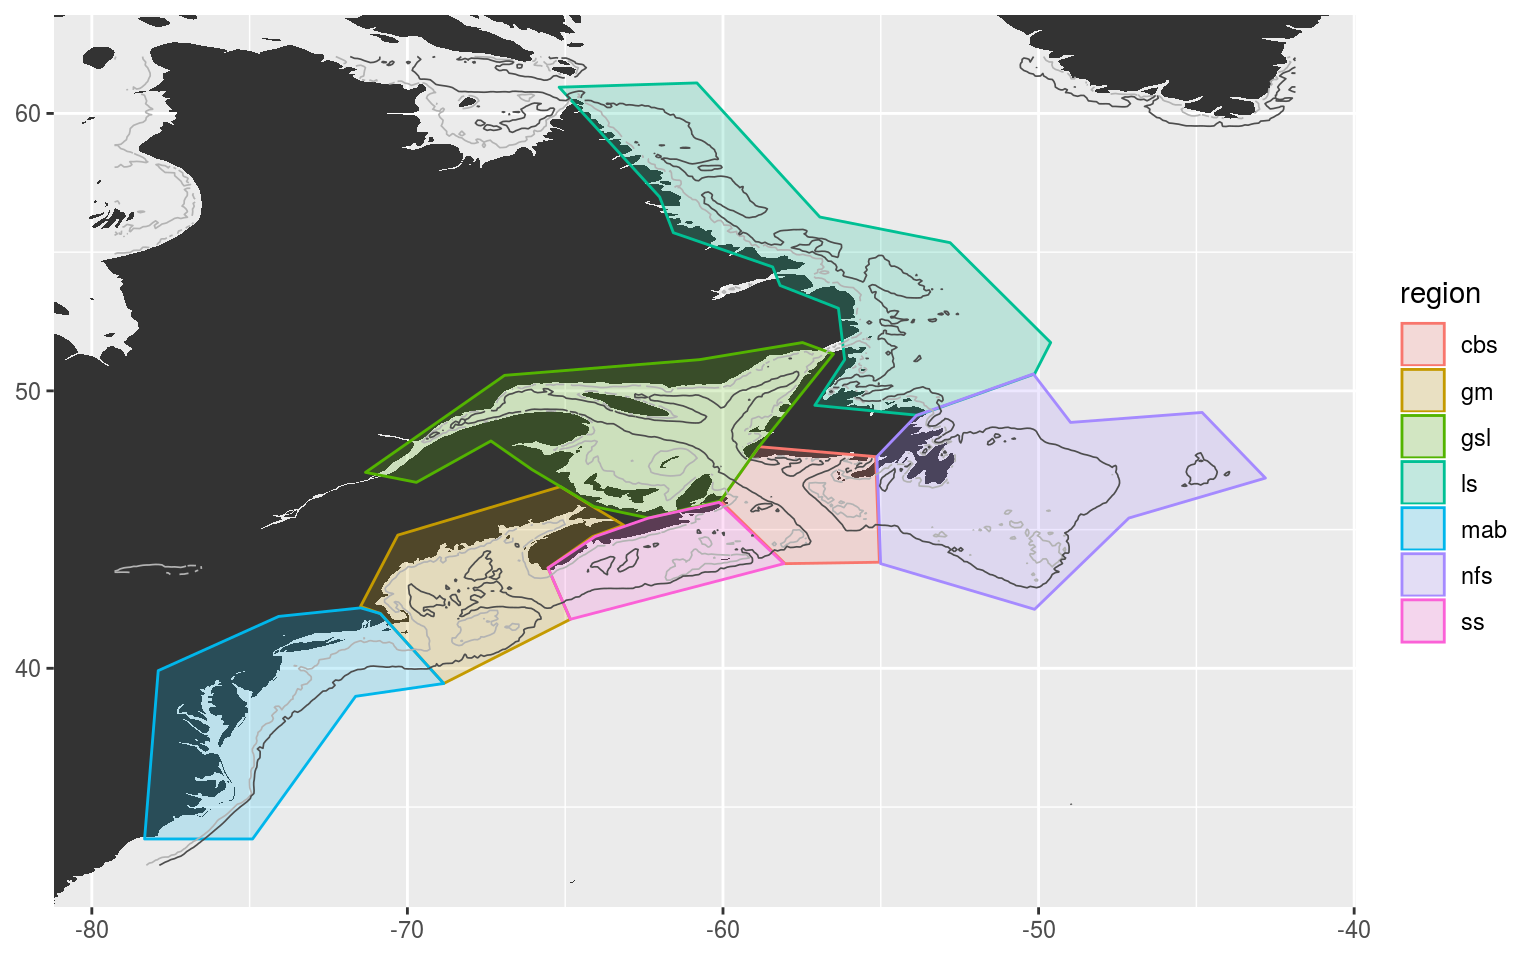
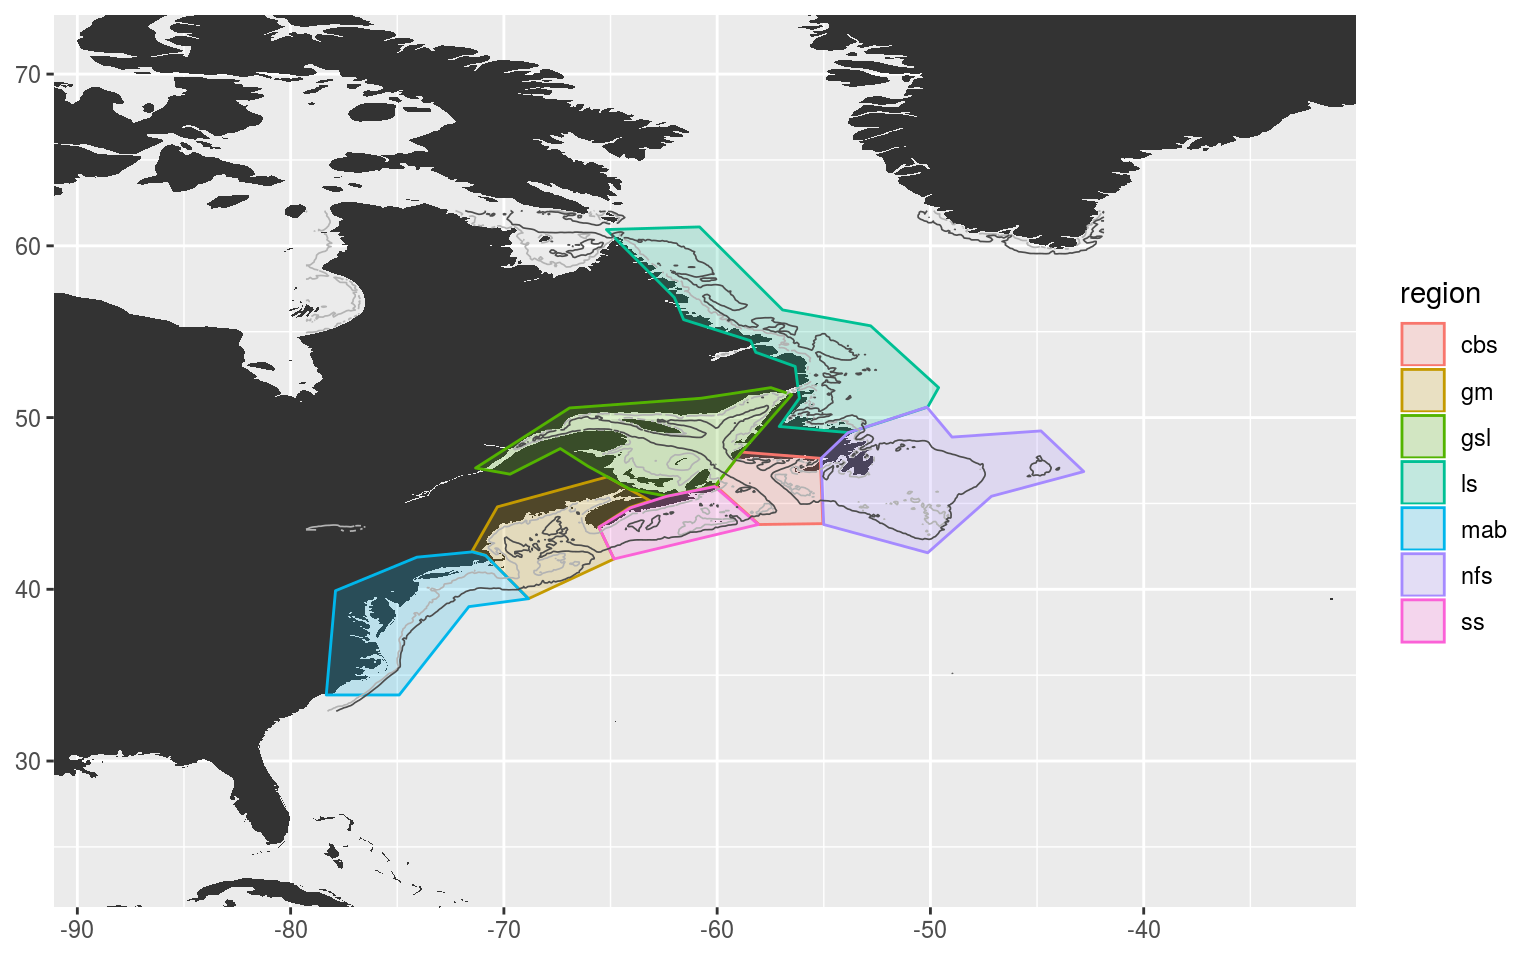
Build site.

diff --git a/docs/polygon-prep.html b/docs/polygon-prep.html
@@ -342,7 +342,7 @@ div.section {
 </div>
 
 
-<p><strong>Last updated:</strong> 2019-05-24</p>
+<p><strong>Last updated:</strong> 2019-05-28</p>
 <strong>workflowr checks:</strong> <small>(Click a bullet for more information)</small>
 <ul>
 <li>
@@ -371,22 +371,22 @@ div.section {
 </li>
 <li>
 <details>
-<p><summary> <strong style="color:blue;">✔</strong> <strong>Repository version:</strong> <a href="https://github.com/robwschlegel/MHWNWA/tree/41440974e79889f54518197d4b96a57269551e13" target="_blank">4144097</a> </summary></p>
+<p><summary> <strong style="color:blue;">✔</strong> <strong>Repository version:</strong> <a href="https://github.com/robwschlegel/MHWNWA/tree/3cdb0aadca51d10dc5a5d834647c6709e2124848" target="_blank">3cdb0aa</a> </summary></p>
 Great! You are using Git for version control. Tracking code development and connecting the code version to the results is critical for reproducibility. The version displayed above was the version of the Git repository at the time these results were generated. <br><br> Note that you need to be careful to ensure that all relevant files for the analysis have been committed to Git prior to generating the results (you can use <code>wflow_publish</code> or <code>wflow_git_commit</code>). workflowr only checks the R Markdown file, but you know if there are other scripts or data files that it depends on. Below is the status of the Git repository when the results were generated:
 <pre><code>
 Ignored files:
     Ignored:    .Rhistory
     Ignored:    .Rproj.user/
+    Ignored:    analysis/figure/
 
 Untracked files:
-    Untracked:  data/NAPA_MHW_sub.Rda
-    Untracked:  data/NAPA_sst_sub.Rda
-    Untracked:  data/NWA_NAPA_info.Rda
-    Untracked:  output/event_lolli_plot.pdf
-    Untracked:  output/sub_region_map.pdf
+    Untracked:  data/NAPA_files_dates.Rda
 
 Unstaged changes:
-    Modified:   analysis/_site.yml
+    Modified:   analysis/var-prep.Rmd
+    Modified:   data/NWA_corners.Rda
+    Modified:   output/NWA_coords_cabot_plot.pdf
+    Modified:   output/NWA_coords_plot.pdf
 
 </code></pre>
 Note that any generated files, e.g. HTML, png, CSS, etc., are not included in this status report because it is ok for generated content to have uncommitted changes.
@@ -417,6 +417,40 @@ Message
 </tr>
 </thead>
 <tbody>
+<tr>
+<td style="text-align:left;">
+Rmd
+</td>
+<td style="text-align:left;">
+<a href="https://github.com/robwschlegel/MHWNWA/blob/3cdb0aadca51d10dc5a5d834647c6709e2124848/analysis/polygon-prep.Rmd" target="_blank">3cdb0aa</a>
+</td>
+<td style="text-align:left;">
+robwschlegel
+</td>
+<td style="text-align:left;">
+2019-05-28
+</td>
+<td style="text-align:left;">
+Extended the corners of the study region.
+</td>
+</tr>
+<tr>
+<td style="text-align:left;">
+html
+</td>
+<td style="text-align:left;">
+<a href="https://cdn.rawgit.com/robwschlegel/MHWNWA/def6979189cb6ffe5f0a276dc3fb73cc8ce59358/docs/polygon-prep.html" target="_blank">def6979</a>
+</td>
+<td style="text-align:left;">
+robwschlegel
+</td>
+<td style="text-align:left;">
+2019-05-24
+</td>
+<td style="text-align:left;">
+Build site.
+</td>
+</tr>
 <tr>
 <td style="text-align:left;">
 Rmd
@@ -598,8 +632,8 @@ map_base &lt;- ggplot2::fortify(maps::map(fill = TRUE, col = &quot;grey80&quot;,
 NWA_coords_plot &lt;- ggplot(data = NWA_coords, aes(x = lon, y = lat)) +
   geom_polygon(data = map_base, aes(group = group), show.legend = F) +
   geom_polygon(aes(colour = region, fill = region), size = 1.5, alpha = 0.2) +
-  coord_cartesian(xlim = c(min(NWA_coords$lon)-1, max(NWA_coords$lon)+1),
-                  ylim = c(min(NWA_coords$lat)-1, max(NWA_coords$lat)+1)) +
+  coord_cartesian(xlim = c(min(NWA_coords$lon)-10, max(NWA_coords$lon)+10),
+                  ylim = c(min(NWA_coords$lat)-10, max(NWA_coords$lat)+10)) +
   labs(x = NULL, y = NULL, colour = &quot;Region&quot;, fill = &quot;Region&quot;) +
   theme(legend.position = &quot;bottom&quot;)
 # ggsave(NWA_coords_plot, filename = &quot;output/NWA_coords_plot.pdf&quot;, height = 5, width = 6)
@@ -650,12 +684,12 @@ robwschlegel
 </table>
 </details>
 <p>The region abbreviations are: “gm” for Gulf of Maine, “gls” for Gulf of St. Lawrence, “ls” for Labrador Shelf, “mab” for Mid-Atlantic Bight, “nfs” for Newfoundland Shelf and “ss” for Scotian Shelf.</p>
-<p>Before we move on, we’ll do a bit of house keeping to establish a consistent study area for this project based on our polygons. We’ll simply extend the study area by 1 degree of longitude and latitude from the furthest edges of the polygons, as seen in the figure above.</p>
+<p>Before we move on, we’ll do a bit of house keeping to establish a consistent study area for this project based on our polygons. We’ll simply extend the study area by 10 degrees of longitude and latitude from the furthest edges of the polygons, as seen in the figure above. This will encompass broad synoptic scale variables that may be driving MHWs in our study regions, but should not be so broad as to begin to account for teleconnections, which are currently beyond the scope of this project.</p>
 <pre class="r"><code># Set the max/min lon/at values
-lon_min &lt;- round(min(NWA_coords$lon)-1, 2)
-lon_max &lt;- round(max(NWA_coords$lon)+1, 2)
-lat_min &lt;- round(min(NWA_coords$lat)-1, 2)
-lat_max &lt;- round(max(NWA_coords$lat)+1, 2)
+lon_min &lt;- round(min(NWA_coords$lon)-10, 2)
+lon_max &lt;- round(max(NWA_coords$lon)+10, 2)
+lat_min &lt;- round(min(NWA_coords$lat)-10, 2)
+lat_max &lt;- round(max(NWA_coords$lat)+10, 2)
 
 # Combine and save
 NWA_corners &lt;- c(lon_min, lon_max, lat_min, lat_max)
@@ -671,7 +705,8 @@ gsl_sub$row_count &lt;- 1:nrow(gsl_sub)
 
 ggplot(data = gsl_sub, aes(x = lon, y = lat)) +
   geom_polygon(aes(fill = region)) +
-  geom_label(aes(label = row_count))</code></pre>
+  geom_label(aes(label = row_count)) +
+  labs(x = NULL, y = NULL)</code></pre>
 <p><img src="figure/polygon-prep.Rmd/cabot-strait-1-1.png" width="768" style="display: block; margin: auto;" /></p>
 <details>
 <summary><em>Expand here to see past versions of cabot-strait-1-1.png:</em></summary>
@@ -716,7 +751,10 @@ robwschlegel
 </table>
 </details>
 <p>It appears from the crude figure above that we should pinch the polygon off into two separate shapes at row 6 and 10.</p>
-<pre class="r"><code># Create smaller gsl polygon
+<pre class="r"><code># Load the corners of the study area
+NWA_corners &lt;- readRDS(&quot;data/NWA_corners.Rda&quot;)
+
+# Create smaller gsl polygon
 gsl_new &lt;- NWA_coords[NWA_coords$region == &quot;gsl&quot;,] %&gt;% 
   slice(-c(7:9))
 
@@ -735,8 +773,8 @@ NWA_coords_cabot &lt;- NWA_coords %&gt;%
 NWA_coords_cabot_plot &lt;- ggplot(data = NWA_coords_cabot, aes(x = lon, y = lat)) +
   geom_polygon(data = map_base, aes(group = group), show.legend = F) +
   geom_polygon(aes(colour = region, fill = region), size = 1.5, alpha = 0.2) +
-  coord_cartesian(xlim = c(min(NWA_coords$lon)-1, max(NWA_coords$lon)+1),
-                  ylim = c(min(NWA_coords$lat)-1, max(NWA_coords$lat)+1)) +
+  coord_cartesian(xlim = NWA_corners[1:2],
+                  ylim = NWA_corners[3:4]) +
   labs(x = NULL, y = NULL, colour = &quot;Region&quot;, fill = &quot;Region&quot;) +
   theme(legend.position = &quot;bottom&quot;)
 # ggsave(NWA_coords_cabot_plot, filename = &quot;output/NWA_coords_cabot_plot.pdf&quot;, height = 5, width = 6)
@@ -796,8 +834,8 @@ robwschlegel
 <h3>Downloading data</h3>
 <p>Before we can divide up our polygons by bathymetry, we must first download said bathymetry data. We will use here the NOAA data as it is (to my knowledge) the most convenient bathymetry data available directly through R.</p>
 <pre class="r"><code># Donwload NOAA bathy data at highest available resolution
-NWA_bathy_hires &lt;- as.xyz(getNOAA.bathy(lon1 = NWA_corners[1], lon2 = NWA_corners[2],
-                                        lat1 = NWA_corners[3], lat2 = NWA_corners[4], resolution = 1))
+NWA_bathy_hires &lt;- as.xyz(getNOAA.bathy(lon1 = NWA_corners[1]+9, lon2 = NWA_corners[2]-9,
+                                        lat1 = NWA_corners[3]+9, lat2 = NWA_corners[4]-9, resolution = 1))
 colnames(NWA_bathy_hires) &lt;- c(&quot;lon&quot;, &quot;lat&quot;, &quot;depth&quot;)
 NWA_bathy_hires &lt;- NWA_bathy_hires %&gt;% 
   filter(depth &lt;= 0) %&gt;% 
@@ -806,8 +844,8 @@ NWA_bathy_hires &lt;- NWA_bathy_hires %&gt;%
 # saveRDS(NWA_bathy_hires, file = &quot;data/NWA_bathy_hires.Rda&quot;)
 
 # Donwload NOAA bathy data at a courser resolution
-NWA_bathy_lowres &lt;- as.xyz(getNOAA.bathy(lon1 = NWA_corners[1], lon2 = NWA_corners[2],
-                                        lat1 = NWA_corners[3], lat2 = NWA_corners[4], resolution = 6))
+NWA_bathy_lowres &lt;- as.xyz(getNOAA.bathy(lon1 = NWA_corners[1]+9, lon2 = NWA_corners[2]-9,
+                                         lat1 = NWA_corners[3]+9, lat2 = NWA_corners[4]-9, resolution = 6))
 colnames(NWA_bathy_lowres) &lt;- c(&quot;lon&quot;, &quot;lat&quot;, &quot;depth&quot;)
 NWA_bathy_lowres &lt;- NWA_bathy_lowres %&gt;% 
   filter(depth &lt;= 0) %&gt;% 
@@ -815,9 +853,8 @@ NWA_bathy_lowres &lt;- NWA_bathy_lowres %&gt;%
          lat = round(lat, 4))
 # saveRDS(NWA_bathy_lowres, file = &quot;data/NWA_bathy_lowres.Rda&quot;)</code></pre>
 <p>With our high res bathymetry data downloaded we will now go about finding the 50 and 200 metre isobaths. These lines will be used to define the edges of our sub-regions. The naming conventions we will use will be</p>
-<pre class="r"><code># Load hires bathymetry data and NWA corners
+<pre class="r"><code># Load hires bathymetry data
 NWA_bathy_hires &lt;- readRDS(&quot;data/NWA_bathy_hires.Rda&quot;)
-NWA_corners &lt;- readRDS(&quot;data/NWA_corners.Rda&quot;)
 
 # Plot to see what we&#39;ve got
 bathy_hires_plot &lt;- ggplot(NWA_coords_cabot, aes(x = lon, y = lat)) +

diff --git a/docs/sst-prep.html b/docs/sst-prep.html
@@ -342,7 +342,7 @@ div.section {
 </div>
 
 
-<p><strong>Last updated:</strong> 2019-05-24</p>
+<p><strong>Last updated:</strong> 2019-05-28</p>
 <strong>workflowr checks:</strong> <small>(Click a bullet for more information)</small>
 <ul>
 <li>
@@ -371,7 +371,7 @@ div.section {
 </li>
 <li>
 <details>
-<p><summary> <strong style="color:blue;">✔</strong> <strong>Repository version:</strong> <a href="https://github.com/robwschlegel/MHWNWA/tree/5dc8bd9ce2b868ebaefcc3ff83f0289672d22430" target="_blank">5dc8bd9</a> </summary></p>
+<p><summary> <strong style="color:blue;">✔</strong> <strong>Repository version:</strong> <a href="https://github.com/robwschlegel/MHWNWA/tree/3cdb0aadca51d10dc5a5d834647c6709e2124848" target="_blank">3cdb0aa</a> </summary></p>
 Great! You are using Git for version control. Tracking code development and connecting the code version to the results is critical for reproducibility. The version displayed above was the version of the Git repository at the time these results were generated. <br><br> Note that you need to be careful to ensure that all relevant files for the analysis have been committed to Git prior to generating the results (you can use <code>wflow_publish</code> or <code>wflow_git_commit</code>). workflowr only checks the R Markdown file, but you know if there are other scripts or data files that it depends on. Below is the status of the Git repository when the results were generated:
 <pre><code>
 Ignored files:
@@ -379,14 +379,13 @@ Ignored files:
     Ignored:    .Rproj.user/
 
 Untracked files:
-    Untracked:  data/NAPA_MHW_sub.Rda
-    Untracked:  data/NAPA_sst_sub.Rda
-    Untracked:  data/NWA_NAPA_info.Rda
-    Untracked:  output/event_lolli_plot.pdf
-    Untracked:  output/sub_region_map.pdf
+    Untracked:  data/NAPA_files_dates.Rda
 
 Unstaged changes:
-    Modified:   analysis/_site.yml
+    Modified:   analysis/var-prep.Rmd
+    Modified:   data/NWA_corners.Rda
+    Modified:   output/NWA_coords_cabot_plot.pdf
+    Modified:   output/NWA_coords_plot.pdf
 
 </code></pre>
 Note that any generated files, e.g. HTML, png, CSS, etc., are not included in this status report because it is ok for generated content to have uncommitted changes.
@@ -417,6 +416,23 @@ Message
 </tr>
 </thead>
 <tbody>
+<tr>
+<td style="text-align:left;">
+html
+</td>
+<td style="text-align:left;">
+<a href="https://cdn.rawgit.com/robwschlegel/MHWNWA/c09b4f7548427da023cfaf19ba517cb49e9456df/docs/sst-prep.html" target="_blank">c09b4f7</a>
+</td>
+<td style="text-align:left;">
+robwschlegel
+</td>
+<td style="text-align:left;">
+2019-05-24
+</td>
+<td style="text-align:left;">
+Build site.
+</td>
+</tr>
 <tr>
 <td style="text-align:left;">
 Rmd
@@ -632,6 +648,37 @@ ggplot(NWA_coords, aes(x = lon, y = lat)) +
                   ylim = NWA_corners[3:4]) +
   labs(x = NULL, y = NULL)</code></pre>
 <p><img src="figure/sst-prep.Rmd/pixel-regions-1.png" width="768" style="display: block; margin: auto;" /></p>
+<details>
+<summary><em>Expand here to see past versions of pixel-regions-1.png:</em></summary>
+<table style = "border-collapse:separate; border-spacing:5px;">
+<thead>
+<tr>
+<th style="text-align:left;">
+Version
+</th>
+<th style="text-align:left;">
+Author
+</th>
+<th style="text-align:left;">
+Date
+</th>
+</tr>
+</thead>
+<tbody>
+<tr>
+<td style="text-align:left;">
+<a href="https://github.com/robwschlegel/MHWNWA/blob/c09b4f7548427da023cfaf19ba517cb49e9456df/docs/figure/sst-prep.Rmd/pixel-regions-1.png" target="_blank">c09b4f7</a>
+</td>
+<td style="text-align:left;">
+robwschlegel
+</td>
+<td style="text-align:left;">
+2019-05-24
+</td>
+</tr>
+</tbody>
+</table>
+</details>
 </div>
 <div id="assign-pixels-to-sub-regions" class="section level3">
 <h3>Assign pixels to sub-regions</h3>
@@ -657,6 +704,37 @@ sub_region_map &lt;- ggplot(NWA_coords, aes(x = lon, y = lat)) +
 # Visualise
 sub_region_map</code></pre>
 <p><img src="figure/sst-prep.Rmd/depth-sub-regions-1.png" width="768" style="display: block; margin: auto;" /></p>
+<details>
+<summary><em>Expand here to see past versions of depth-sub-regions-1.png:</em></summary>
+<table style = "border-collapse:separate; border-spacing:5px;">
+<thead>
+<tr>
+<th style="text-align:left;">
+Version
+</th>
+<th style="text-align:left;">
+Author
+</th>
+<th style="text-align:left;">
+Date
+</th>
+</tr>
+</thead>
+<tbody>
+<tr>
+<td style="text-align:left;">
+<a href="https://github.com/robwschlegel/MHWNWA/blob/c09b4f7548427da023cfaf19ba517cb49e9456df/docs/figure/sst-prep.Rmd/depth-sub-regions-1.png" target="_blank">c09b4f7</a>
+</td>
+<td style="text-align:left;">
+robwschlegel
+</td>
+<td style="text-align:left;">
+2019-05-24
+</td>
+</tr>
+</tbody>
+</table>
+</details>
 </div>
 </div>
 <div id="sst-prep" class="section level2">
@@ -742,6 +820,37 @@ event_lolli_plot &lt;- ggplot(data = NAPA_MHW_event , aes(x = date_peak, y = int
 # Visualise
 event_lolli_plot</code></pre>
 <p><img src="figure/sst-prep.Rmd/MHW-vis-1.png" width="768" style="display: block; margin: auto;" /></p>
+<details>
+<summary><em>Expand here to see past versions of MHW-vis-1.png:</em></summary>
+<table style = "border-collapse:separate; border-spacing:5px;">
+<thead>
+<tr>
+<th style="text-align:left;">
+Version
+</th>
+<th style="text-align:left;">
+Author
+</th>
+<th style="text-align:left;">
+Date
+</th>
+</tr>
+</thead>
+<tbody>
+<tr>
+<td style="text-align:left;">
+<a href="https://github.com/robwschlegel/MHWNWA/blob/c09b4f7548427da023cfaf19ba517cb49e9456df/docs/figure/sst-prep.Rmd/MHW-vis-1.png" target="_blank">c09b4f7</a>
+</td>
+<td style="text-align:left;">
+robwschlegel
+</td>
+<td style="text-align:left;">
+2019-05-24
+</td>
+</tr>
+</tbody>
+</table>
+</details>
 <p>Everything appears to check out. Up next in the <a href="https://robwschlegel.github.io/MHWNWA/var-prep.html">Variable preparation</a> vignette we will go through the steps necessary to build the data that will be fed into our self-organising maps as seen in the <a href="https://robwschlegel.github.io/MHWNWA/som.html">Self-organising map (SOM) analysis</a> vignette.</p>
 </div>
 <div id="session-information" class="section level2">
